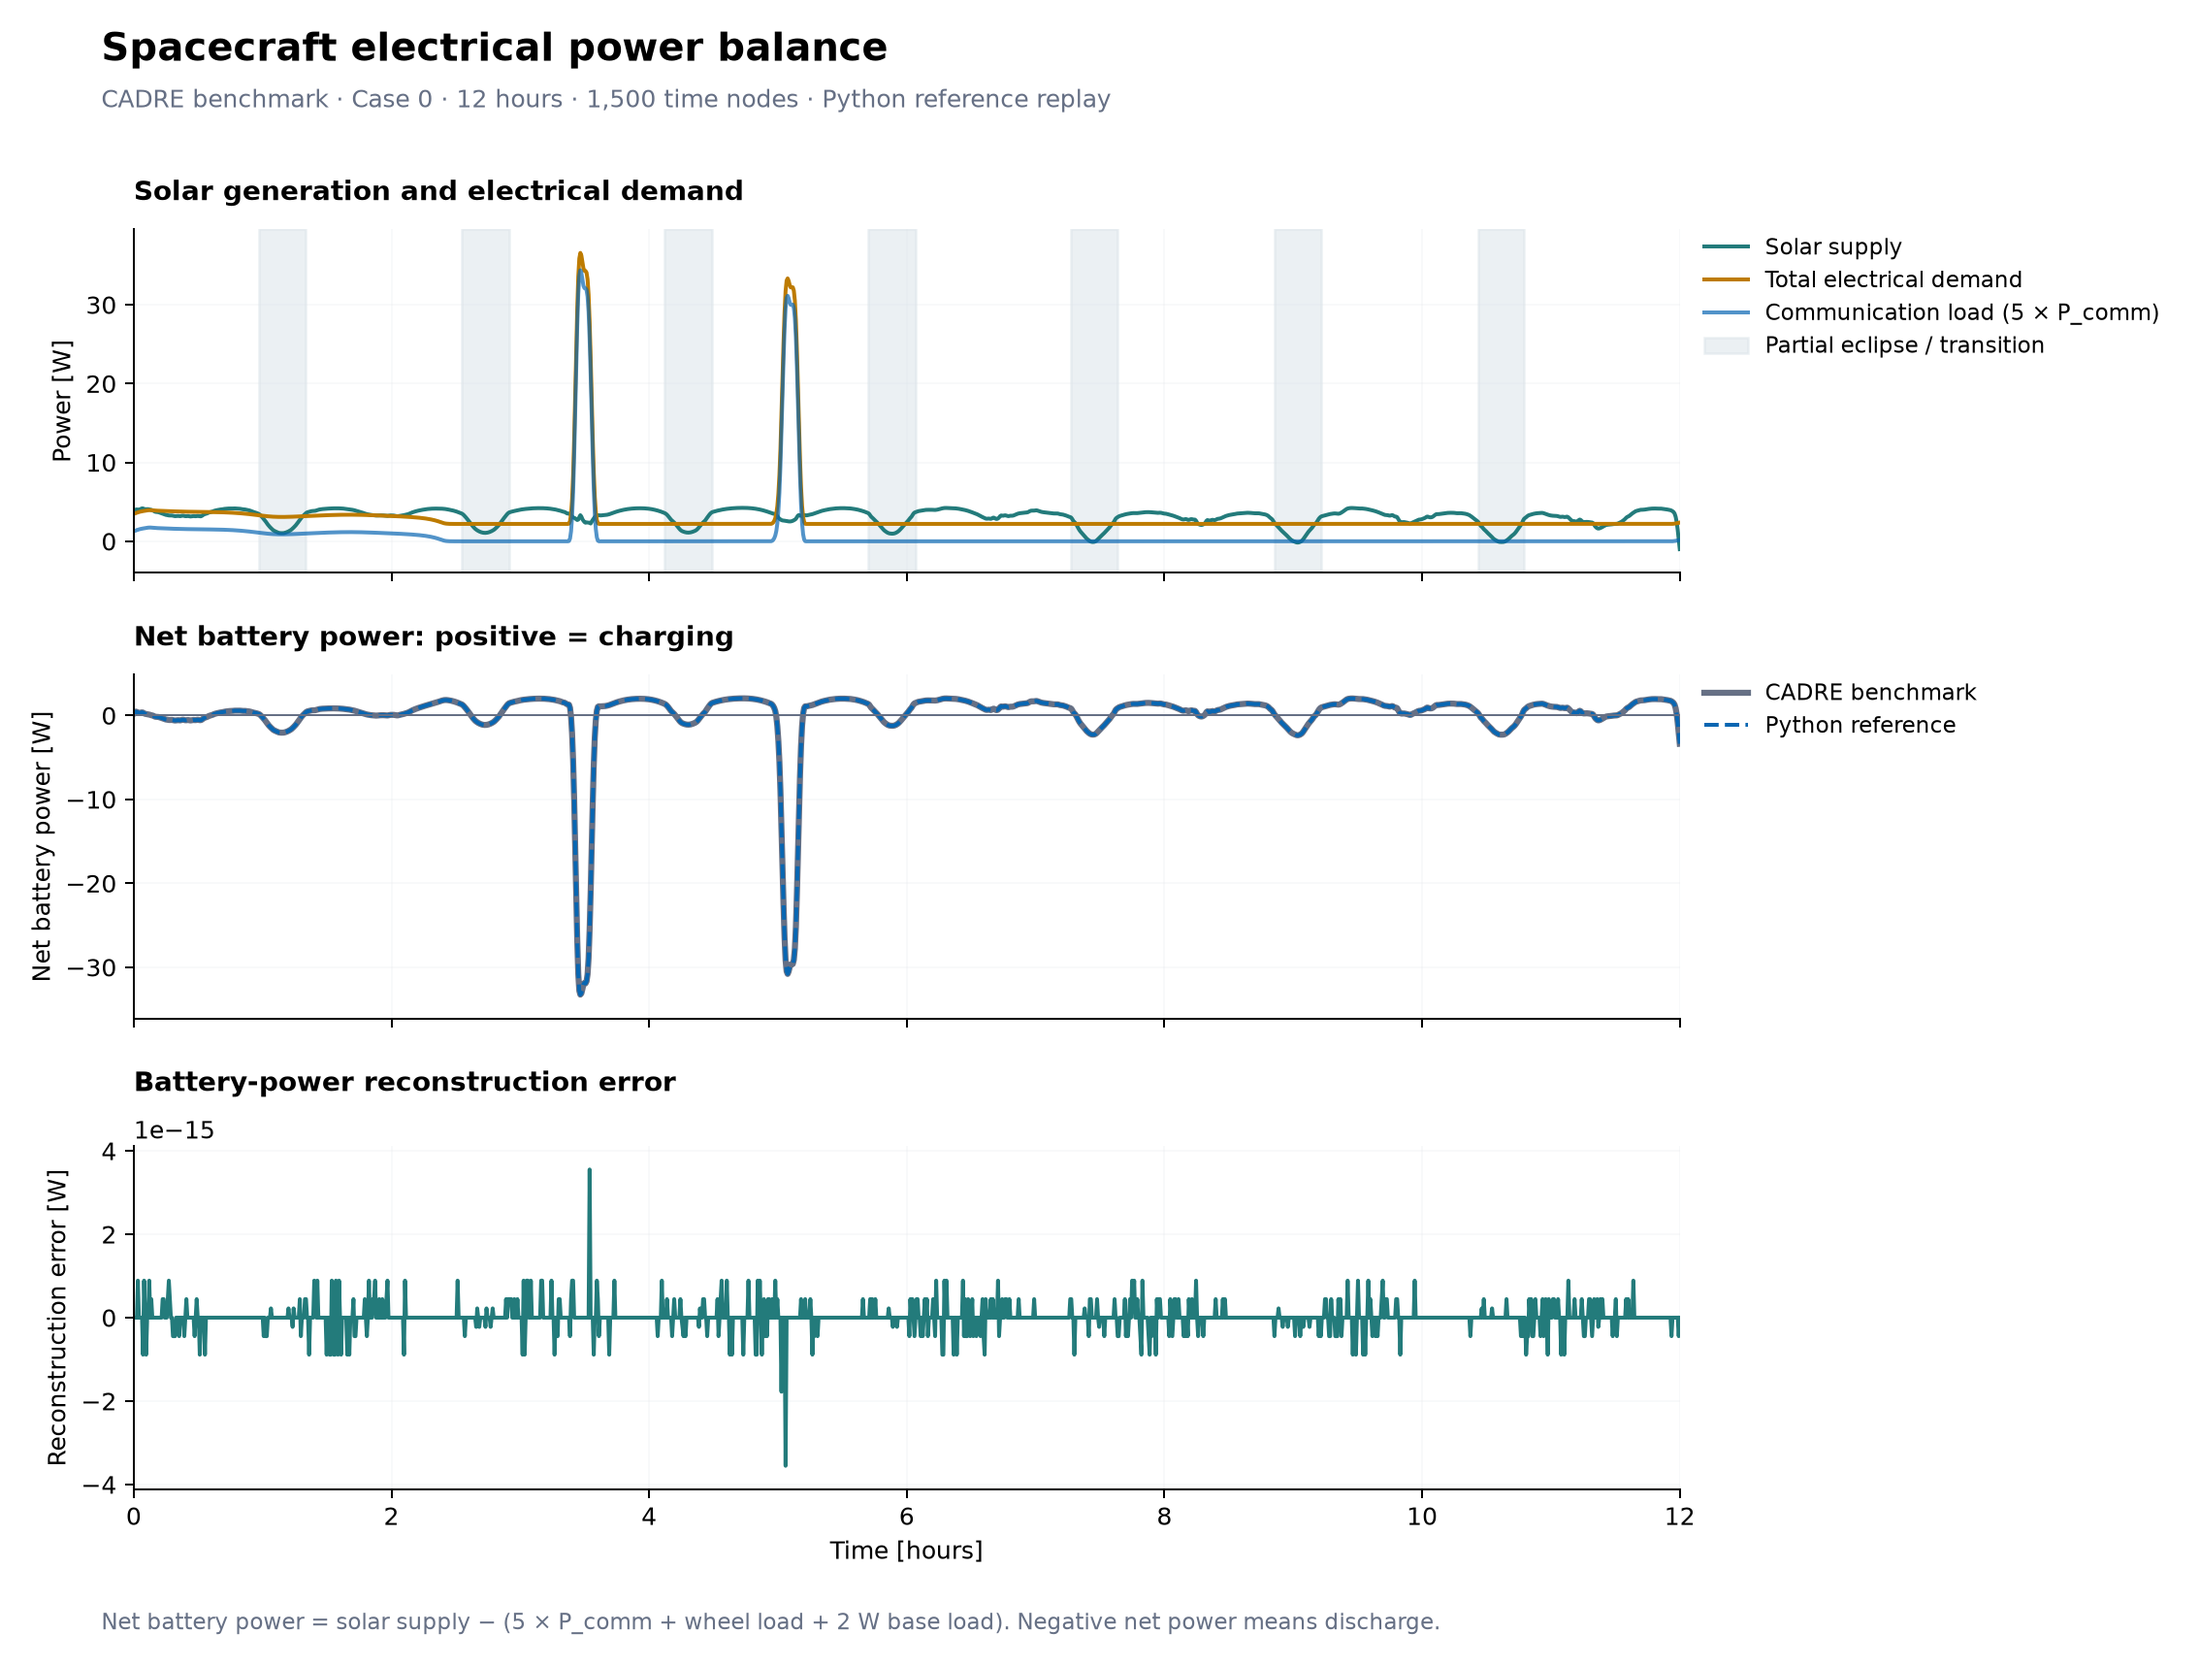
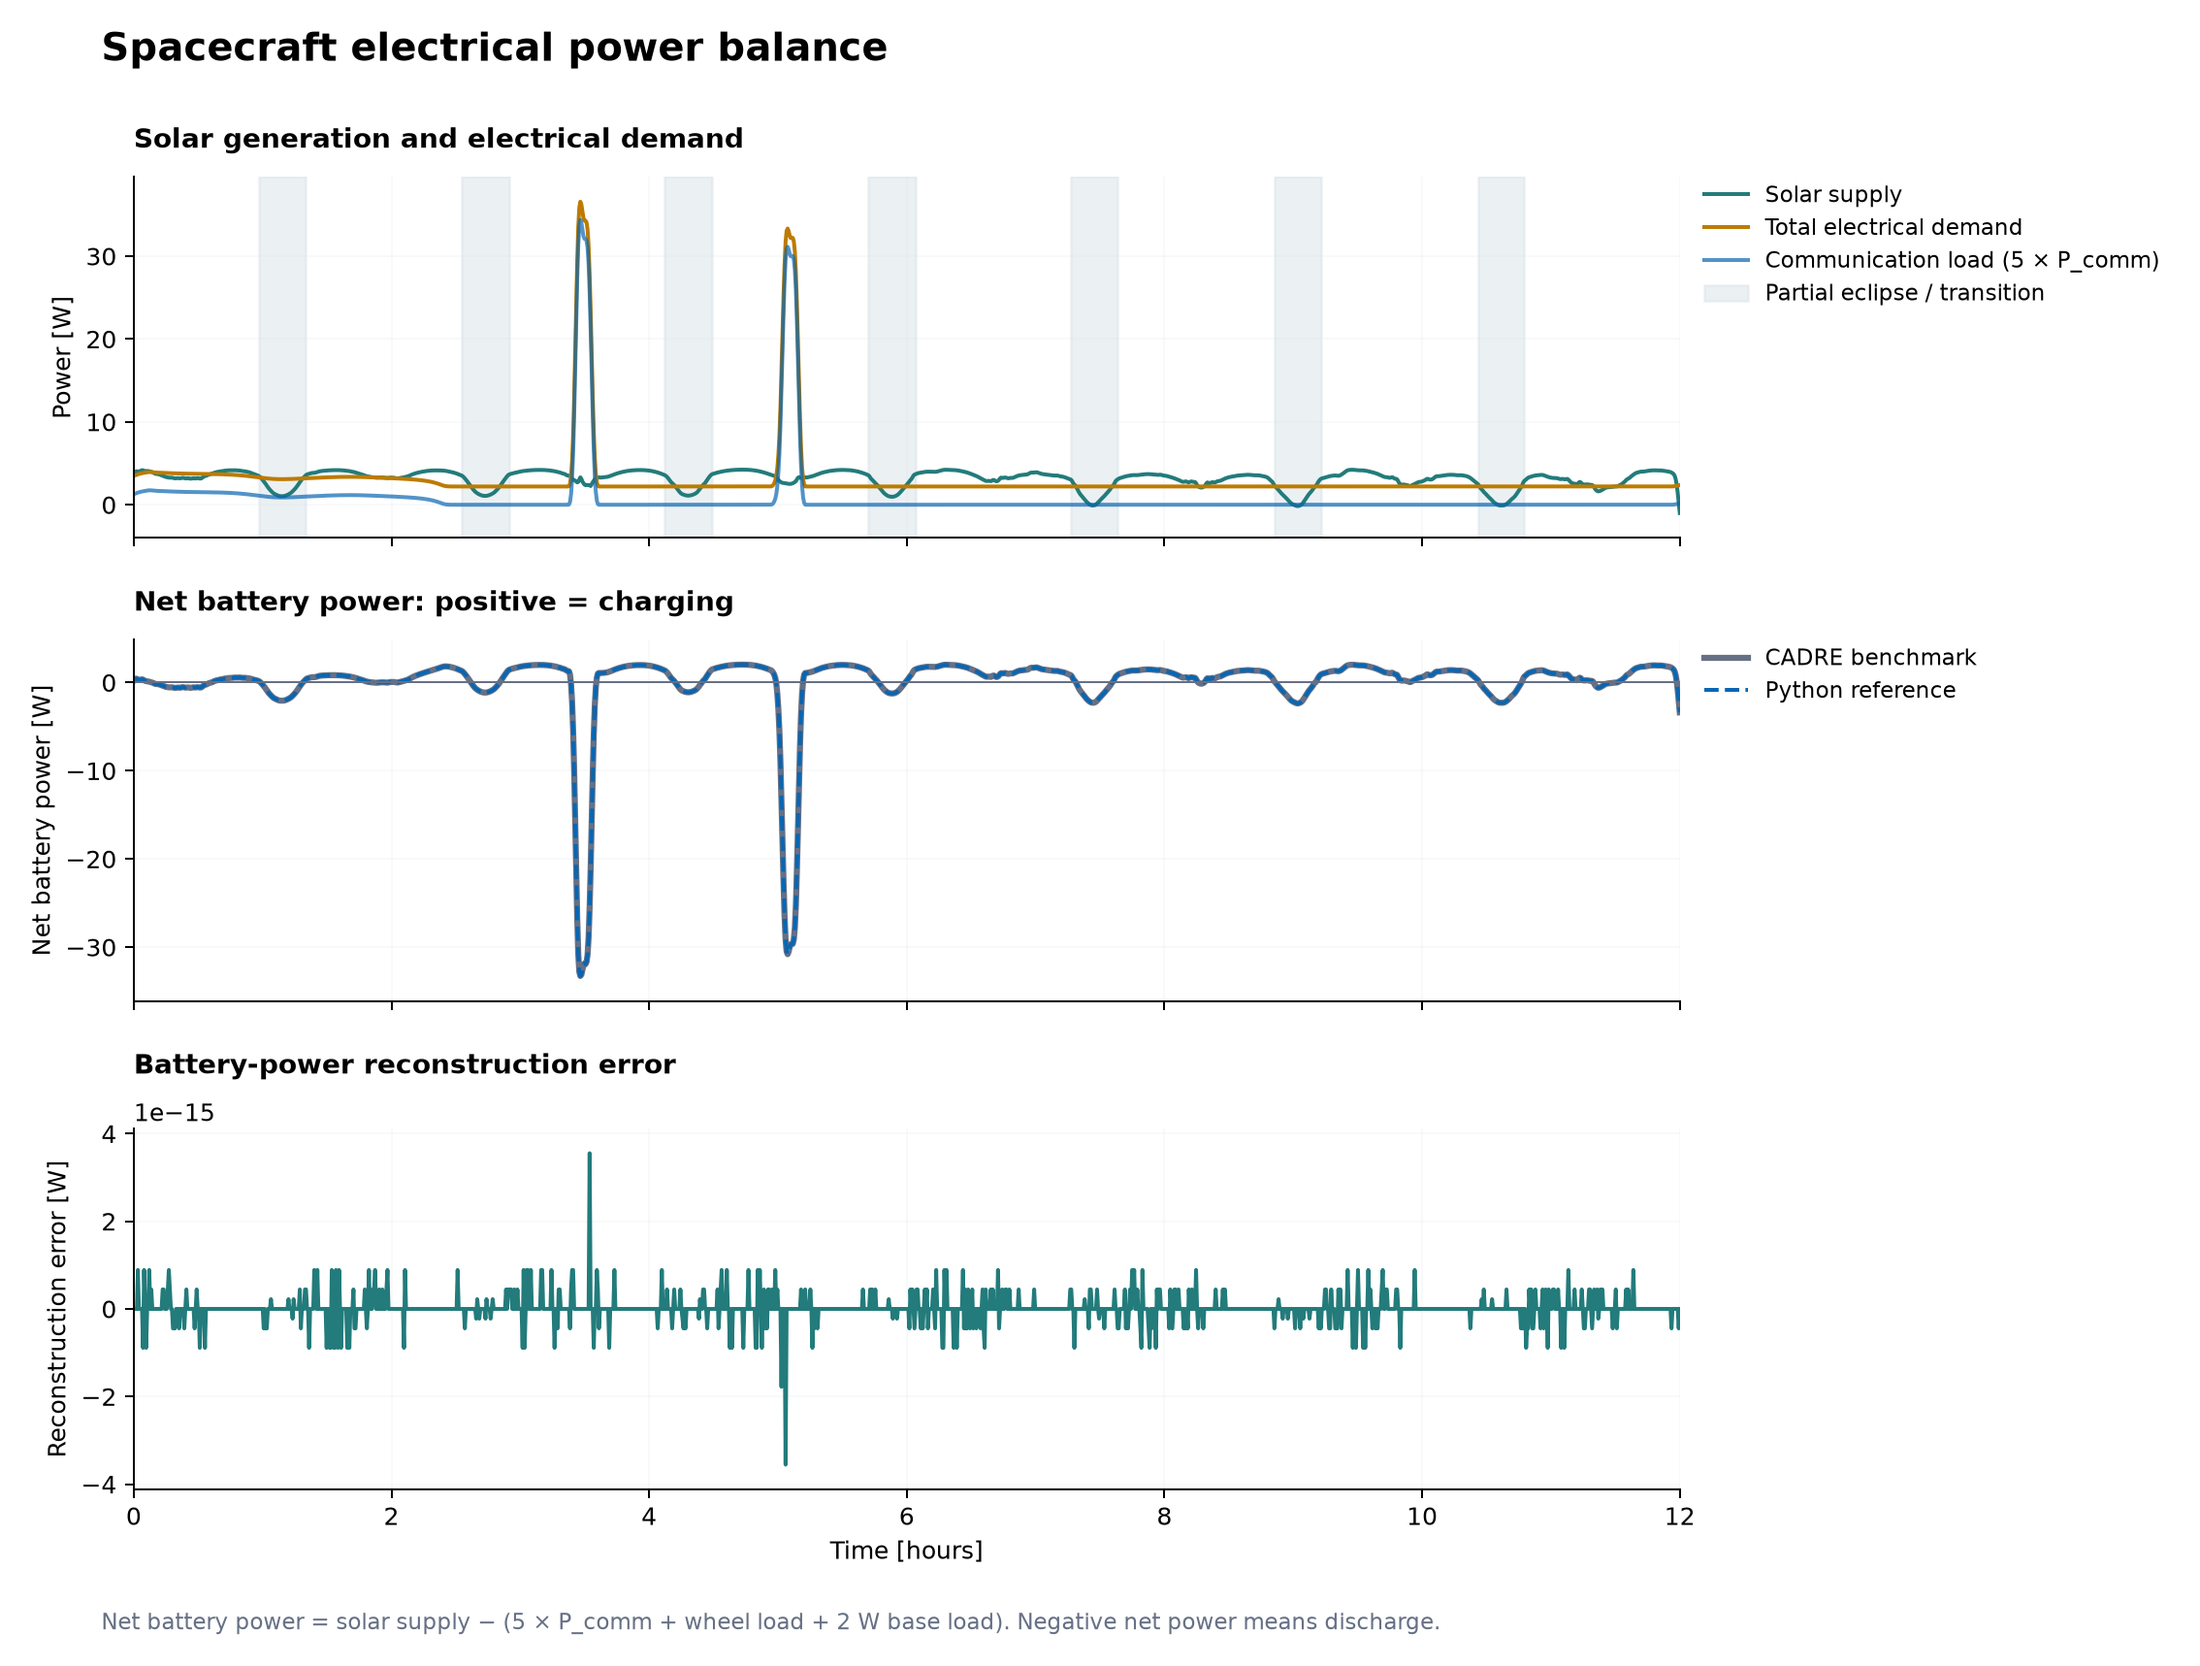
Remove repeated benchmark subtitles from figures

diff --git a/visualizations/style.py b/visualizations/style.py
@@ -73,7 +73,7 @@ def finish_figure(figure, title, subtitle="", note="", shared_legend=False):
         if axis.get_label() != "<colorbar>":
             format_axes(axis)
 
-    header = 0.85
+    header = 0.85 if subtitle else 0.55
 
     if shared_legend:
         entries = {}
@@ -90,11 +90,11 @@ def finish_figure(figure, title, subtitle="", note="", shared_legend=False):
                 entries.values(),
                 entries.keys(),
                 loc="upper left",
-                bbox_to_anchor=(0.06, 1 - 0.64 / height),
+                bbox_to_anchor=(0.06, 1 - (0.64 if subtitle else 0.34) / height),
                 ncol=min(3, len(entries)),
                 borderaxespad=0,
             )
-            header = 0.85 + 0.25 * ((len(entries) + 2) // 3)
+            header += 0.25 * ((len(entries) + 2) // 3)
 
     wrapped_note = textwrap.fill(note, width=int(width * 13))
     footer = 0.22 + 0.16 * len(wrapped_note.splitlines()) if note else 0.15
@@ -107,7 +107,10 @@ def finish_figure(figure, title, subtitle="", note="", shared_legend=False):
         wspace=0.08,
     )
     figure.text(0.06, 1 - 0.12 / height, title, va="top", fontsize=16, weight="bold")
-    figure.text(0.06, 1 - 0.45 / height, subtitle, va="top", fontsize=10, color=GRAY)
+    if subtitle:
+        figure.text(
+            0.06, 1 - 0.45 / height, subtitle, va="top", fontsize=10, color=GRAY
+        )
 
     if note:
         figure.text(

diff --git a/visualizations/common.py b/visualizations/common.py
@@ -102,8 +102,7 @@ def finish(figure, output, name, title, note=""):
         output,
         name,
         title,
-        "CADRE benchmark · Case 0 · 12 hours · 1,500 time nodes · Python reference replay",
-        note
+        note=note
         or "Source: CADRE test/data1346.pkl. Difference panels compare reconstructions; no new AMIGO optimization.",
     )
 

diff --git a/visualizations/README.md b/visualizations/README.md
@@ -13,11 +13,12 @@ reference functions in this repository. Generating them does not run AMIGO.
 | Design controls | [B-spline weights and schedules](figures/parameters.png) |
 | Integrated optimization | [Saved cases and figures](../integrated/results/README.md) |
 
-All figures use [the shared style](style.py): a short title, a case/status line,
+All figures use [the shared style](style.py): a short title,
 labeled panels, units on every quantitative axis, legends outside the data,
 and a footer for conventions or important results. Time histories use hours.
 Multi-panel current plots share their scales and legend. Heatmaps label every
 panel and cell location, with the color scale shown alongside them.
+Optimization figures also identify validation status.
 
 Gray curves are saved CADRE outputs; dashed blue curves are Python
 reconstructions. Gold comparison curves show the effect of switching from RK4
